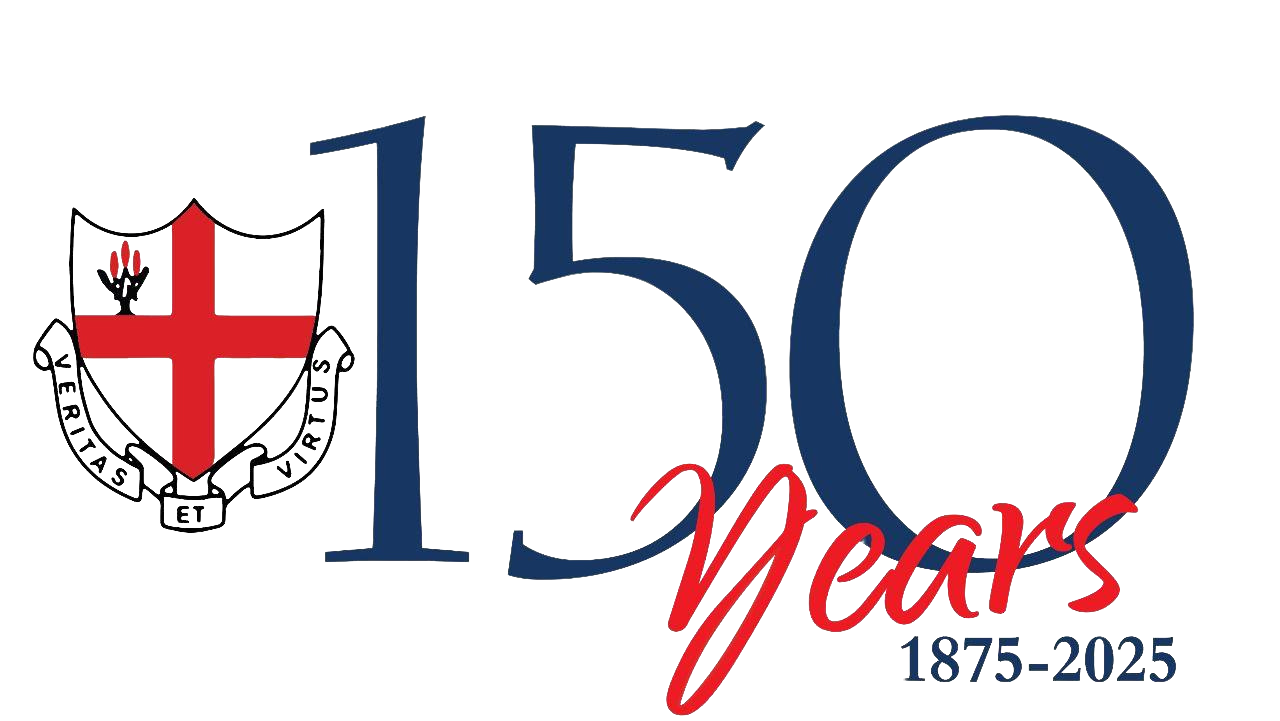
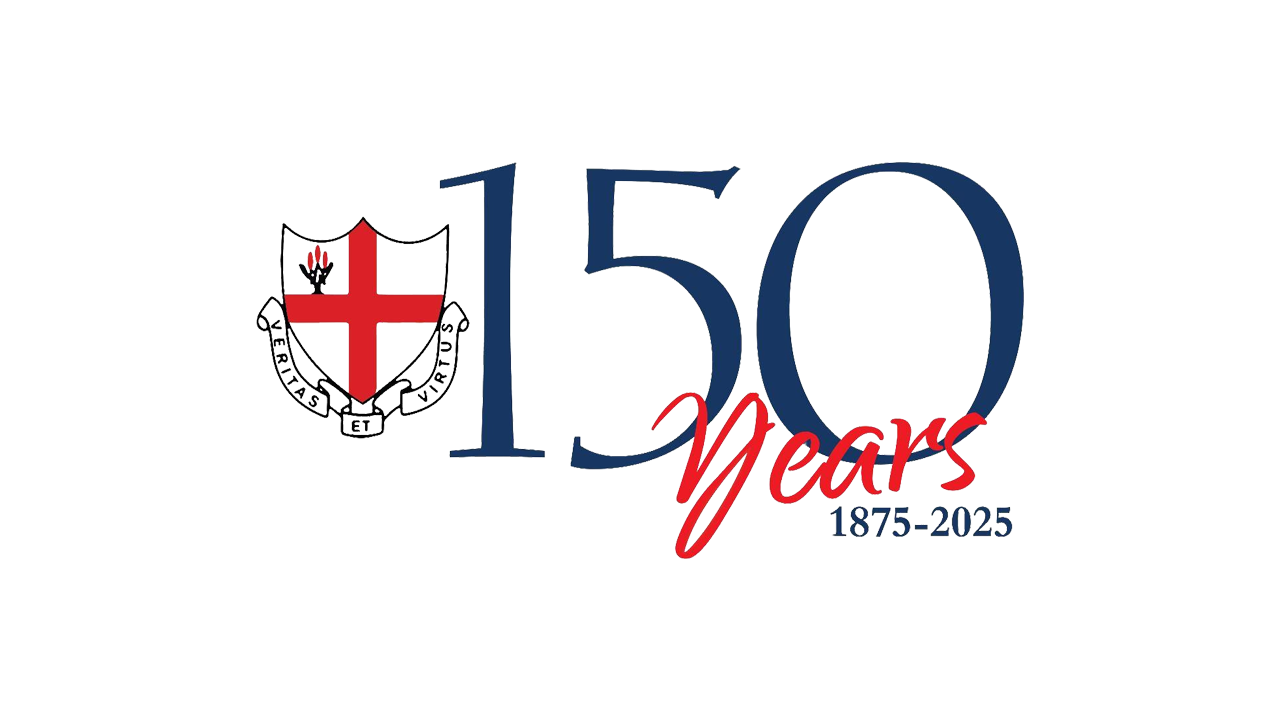
Update hero section to use responsive 150Badge image with srcset and sizes

Changed region(s): [[0.0312, 0.1526, 0.9375, 1.0], [0.75, 0.6408, 0.7812, 0.6713]]

diff --git a/resources/views/components/hero-section.blade.php b/resources/views/components/hero-section.blade.php
@@ -5,8 +5,11 @@
     {{-- Center Content --}}
     <div
         class="text-black text-center z-20 relative flex flex-col justify-center items-center rounded-md w-full sm:max-w-[50%] text-balance py-2 px-4 sm:px-10 bg-white bg-opacity-80 backdrop-blur shadow-xl">
-        <img src="{{ asset('assets/150Badge.webp') }}" alt=""
-            class="md:min-h-20 h-[100px] md:max-h-[150px] {{ $hideImg ?? 'display:block' }}">
+        <!-- Updated 150Badge image with srcset and sizes -->
+        <img src="{{ asset('assets/150Badge.webp') }}"
+            srcset="{{ asset('assets/150Badge_small.webp') }} 150w, {{ asset('assets/150Badge.webp') }} 300w"
+            sizes="(max-width: 768px) 100px, 150px" alt="150 Badge"
+            class="md:min-h-20 h-[150px] md:max-h-[150px] {{ $hideImg ?? 'display:block' }}">
         <div class="{{ $hidden ?? 'flex' }} flex-row items-center gap-2 " style=" ">
             <hr style="border: 2px solid red;" class="md:min-w-[100px] min-w-4">
             <p>{{ $topPHeading ?? 'Become a Part of Our Legacy' }}</p>
@@ -26,7 +29,7 @@
             @if (isset($button2))
                 @include($button2['component'], $button2)
             @endif
-            <button data-modal-target="default-modal" data-modal-toggle="default-modal"  type="button"
+            <button data-modal-target="default-modal" data-modal-toggle="default-modal" type="button"
                 class="py-2 px-4 bg-transparent text-red-500 hover:rounded-none hover:bg-white hover:text-[#DE2413] transition-all mt-{{ $mt ?? 1 }} {{ $hiddenBTN ?? 'hidden' }} {{ $rounded ?? 'rounded-none' }}">{{ $popupBTN ?? 'Donate' }}</button>
         </div>
     </div>
